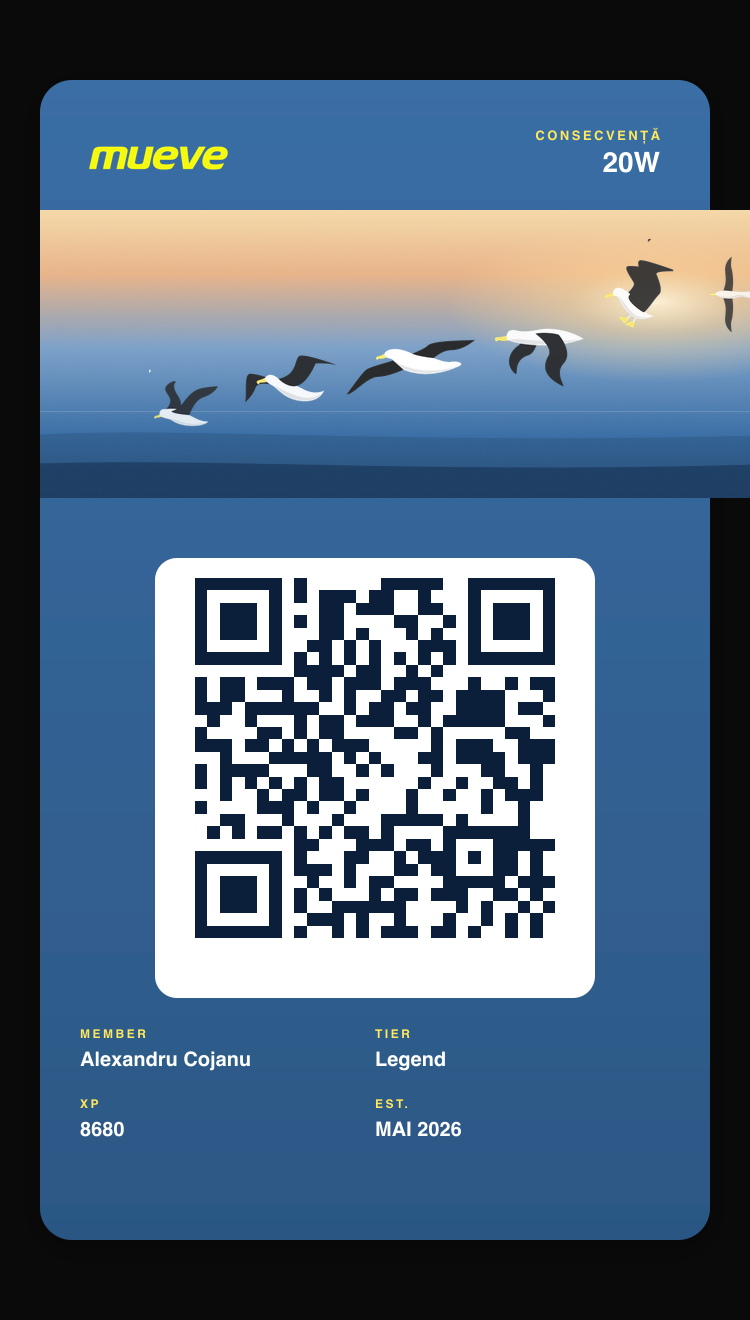
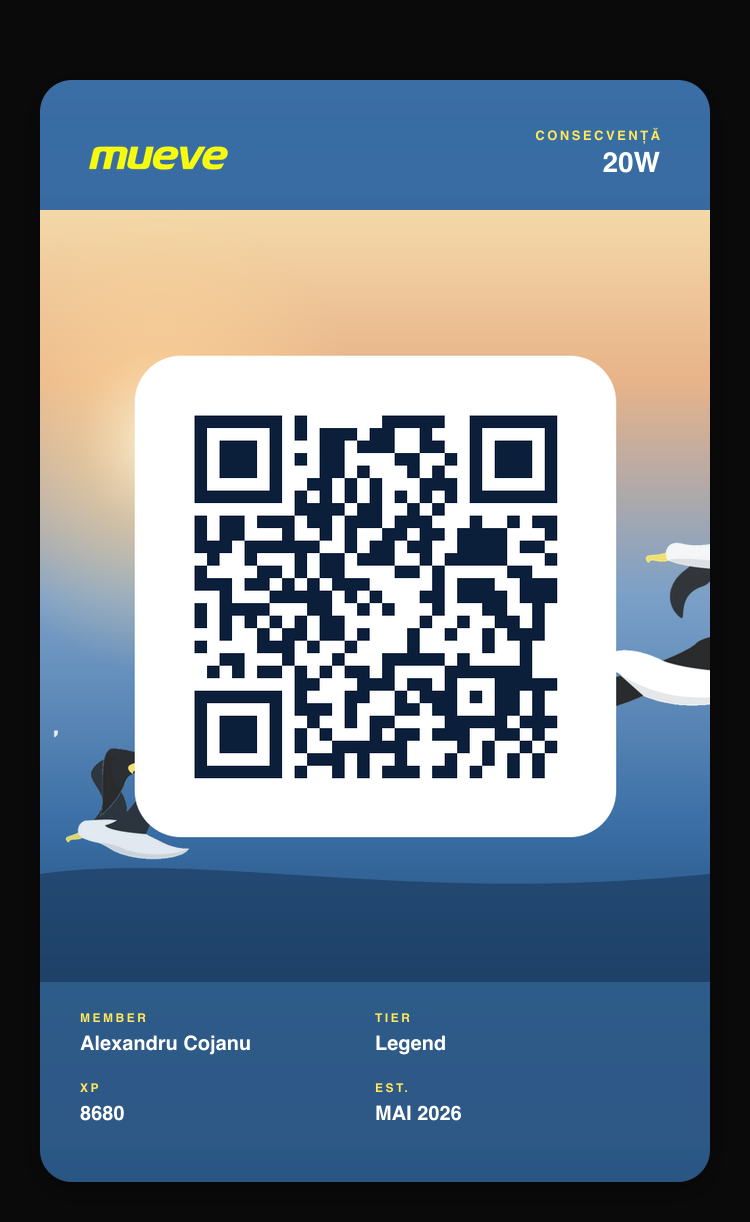
wallet(apple): bake QR into strip; fields render below QR as requested

diff --git a/src/lib/wallet/strip-renderer.ts b/src/lib/wallet/strip-renderer.ts
@@ -1,0 +1,149 @@
+import sharp from "sharp";
+import QRCode from "qrcode";
+import path from "node:path";
+import fs from "node:fs/promises";
+
+// Cartoon gull flock from public/birds/, sized + positioned for a 1x strip.
+// Positions are percentages so they scale to @2x/@3x cleanly.
+const FLOCK = [
+  { file: "bird-1.png", xPct: 0.06, yPct: 0.78, scale: 0.34, alpha: 0.85 },
+  { file: "bird-3.png", xPct: 0.16, yPct: 0.68, scale: 0.42, alpha: 0.95 },
+  { file: "bird-2.png", xPct: 0.84, yPct: 0.55, scale: 0.45, alpha: 1.0 },
+  { file: "bird-5.png", xPct: 0.93, yPct: 0.42, scale: 0.32, alpha: 0.9 },
+] as const;
+
+function buildSkySvg(w: number, h: number, qrSlotPx: number): string {
+  return `<svg width="${w}" height="${h}" xmlns="http://www.w3.org/2000/svg">
+    <defs>
+      <linearGradient id="sky" x1="0" y1="0" x2="0" y2="1">
+        <stop offset="0%" stop-color="#f4d8a8"/>
+        <stop offset="22%" stop-color="#e8b389"/>
+        <stop offset="50%" stop-color="#7ba0c8"/>
+        <stop offset="80%" stop-color="#3a6ea5"/>
+        <stop offset="100%" stop-color="#234c79"/>
+      </linearGradient>
+      <radialGradient id="sun" cx="0.18" cy="0.30" r="0.30">
+        <stop offset="0%" stop-color="#fff3d6" stop-opacity="0.95"/>
+        <stop offset="40%" stop-color="#ffd99a" stop-opacity="0.5"/>
+        <stop offset="100%" stop-color="#ffd99a" stop-opacity="0"/>
+      </radialGradient>
+    </defs>
+    <rect width="${w}" height="${h}" fill="url(#sky)"/>
+    <rect width="${w}" height="${h}" fill="url(#sun)"/>
+    <path d="M 0 ${h * 0.86}
+             C ${w * 0.25} ${h * 0.83}, ${w * 0.55} ${h * 0.90}, ${w} ${h * 0.86}
+             L ${w} ${h} L 0 ${h} Z"
+          fill="#1a3a5e" opacity="0.65"/>
+  </svg>`;
+}
+
+const BIRDS_DIR = path.resolve(process.cwd(), "public/birds");
+
+async function renderBird(file: string, targetH: number, alpha: number) {
+  const buf = await sharp(path.join(BIRDS_DIR, file))
+    .resize({ height: targetH, withoutEnlargement: false })
+    .ensureAlpha()
+    .toBuffer({ resolveWithObject: true });
+  const { data: raw, info } = await sharp(buf.data)
+    .raw()
+    .toBuffer({ resolveWithObject: true });
+  for (let i = 3; i < raw.length; i += 4) raw[i] = Math.round(raw[i] * alpha);
+  return sharp(raw, {
+    raw: { width: info.width, height: info.height, channels: 4 },
+  })
+    .png()
+    .toBuffer({ resolveWithObject: true });
+}
+
+async function renderAt(w: number, h: number, qrPayload: string) {
+  // QR tile sits centered with white background, dark navy modules.
+  const qrSizePx = Math.round(Math.min(h * 0.78, w * 0.58));
+  const qrPng = await QRCode.toBuffer(qrPayload, {
+    type: "png",
+    margin: 1,
+    width: qrSizePx,
+    color: { dark: "#0b1f3a", light: "#ffffff" },
+  });
+
+  // White rounded tile behind the QR for contrast against the sky.
+  const tilePad = Math.round(h * 0.06);
+  const tileSize = qrSizePx + tilePad * 2;
+  const tile = await sharp({
+    create: {
+      width: tileSize,
+      height: tileSize,
+      channels: 4,
+      background: { r: 255, g: 255, b: 255, alpha: 1 },
+    },
+  })
+    .composite([
+      {
+        input: Buffer.from(
+          `<svg width="${tileSize}" height="${tileSize}"><rect width="${tileSize}" height="${tileSize}" rx="${tilePad}" fill="white"/></svg>`,
+        ),
+        blend: "dest-in",
+      },
+      { input: qrPng, left: tilePad, top: tilePad },
+    ])
+    .png()
+    .toBuffer();
+
+  const sky = await sharp(Buffer.from(buildSkySvg(w, h, qrSizePx))).png().toBuffer();
+
+  const composites: sharp.OverlayOptions[] = [];
+
+  // Birds first (behind tile so QR sits on top)
+  for (const bird of FLOCK) {
+    const targetH = Math.round(h * bird.scale);
+    const b = await renderBird(bird.file, targetH, bird.alpha);
+    composites.push({
+      input: b.data,
+      left: Math.round(w * bird.xPct - b.info.width / 2),
+      top: Math.round(h * bird.yPct - b.info.height / 2),
+    });
+  }
+
+  // QR tile centered
+  composites.push({
+    input: tile,
+    left: Math.round((w - tileSize) / 2),
+    top: Math.round((h - tileSize) / 2),
+  });
+
+  return sharp(sky).composite(composites).png().toBuffer();
+}
+
+/**
+ * Returns the 1x/2x/3x strip PNGs with the QR baked in the middle, on a
+ * dawn-sky background with the cartoon gull flock around it.
+ *
+ * Caller should pass these directly into PKPass constructor's assets dict
+ * (in addition to icon.png and logo.png) and OMIT `setBarcodes` so the
+ * baked QR is the only one shown.
+ */
+export async function buildStripWithQr(qrPayload: string): Promise<{
+  "strip.png": Buffer;
+  "strip@2x.png": Buffer;
+  "strip@3x.png": Buffer;
+}> {
+  // 1x ~ 375x432 — taller than the default 144 strip; Apple still accepts
+  // strip images of this aspect, just renders them at native height.
+  const s1 = await renderAt(375, 432, qrPayload);
+  const s2 = await renderAt(750, 864, qrPayload);
+  const s3 = await renderAt(1125, 1296, qrPayload);
+  return { "strip.png": s1, "strip@2x.png": s2, "strip@3x.png": s3 };
+}
+
+// Eager load icon/logo from public/wallet/apple/ for the caller to merge.
+export async function loadStaticPassAssets(dir: string): Promise<Record<string, Buffer>> {
+  const names = ["icon.png", "icon@2x.png", "icon@3x.png", "logo.png", "logo@2x.png", "logo@3x.png"];
+  const out: Record<string, Buffer> = {};
+  for (const n of names) {
+    try {
+      out[n] = await fs.readFile(path.join(dir, n));
+    } catch {
+      /* optional */
+    }
+  }
+  return out;
+}

diff --git a/src/lib/wallet/apple.ts b/src/lib/wallet/apple.ts
@@ -1,6 +1,6 @@
 import path from "node:path";
-import fs from "node:fs/promises";
 import { PKPass } from "passkit-generator";
+import { buildStripWithQr, loadStaticPassAssets } from "./strip-renderer";
 
 export type AppleWalletConfig = {
   passTypeIdentifier: string;
@@ -47,27 +47,6 @@ export function getAppleConfig(): AppleWalletConfig | null {
   };
 }
 
-async function loadTemplateAssets(dir: string): Promise<Record<string, Buffer>> {
-  const names = [
-    "icon.png",
-    "icon@2x.png",
-    "logo.png",
-    "logo@2x.png",
-    "strip.png",
-    "strip@2x.png",
-    "strip@3x.png",
-  ];
-  const out: Record<string, Buffer> = {};
-  for (const n of names) {
-    const p = path.join(dir, n);
-    try {
-      out[n] = await fs.readFile(p);
-    } catch {
-      // optional — if missing, pass validation may fail on Apple's side; user is told to add
-    }
-  }
-  return out;
-}
 
 export type AppleUserData = {
   userId: string;
@@ -87,12 +66,20 @@ export async function buildApplePass(user: AppleUserData): Promise<Buffer> {
   const cfg = getAppleConfig();
   if (!cfg) throw new Error("Apple Wallet is not configured.");
   const templateDir = path.join(process.cwd(), "public", "wallet", "apple");
-  const assets = await loadTemplateAssets(templateDir);
-  if (!assets["icon.png"]) {
+  const staticAssets = await loadStaticPassAssets(templateDir);
+  if (!staticAssets["icon.png"]) {
     throw new Error(
       "Missing required Apple Wallet icon at public/wallet/apple/icon.png (29x29). Add icon.png, icon@2x.png, logo.png, logo@2x.png before generating passes.",
     );
   }
+  // Per-user strip with the QR baked in the middle, so the QR appears above
+  // the secondary/auxiliary fields (Apple renders the strip image between
+  // header and primary fields; if we omit setBarcodes, no QR is drawn at
+  // the bottom and the baked one is the only one shown — exactly what the
+  // pass design calls for).
+  const stripPayload = user.qrUrl || user.qrToken;
+  const stripAssets = await buildStripWithQr(stripPayload);
+  const assets: Record<string, Buffer> = { ...staticAssets, ...stripAssets };
 
   const pass = new PKPass(
     assets,
@@ -120,11 +107,8 @@ export async function buildApplePass(user: AppleUserData): Promise<Buffer> {
   // storeCard supports the strip image (a horizontal banner under the header) —
   // we use it to render the seagull horizon scene that expresses consecvență.
   pass.type = "storeCard";
-  pass.setBarcodes({
-    message: user.qrUrl || user.qrToken,
-    format: "PKBarcodeFormatQR",
-    messageEncoding: "iso-8859-1",
-  });
+  // No native barcode — the QR is baked into the strip image so it can sit
+  // above the secondary/auxiliary fields instead of at the very bottom.
 
   // Streak in the header (top-right, small, beside logo) so the strip art
   // breathes and the QR sits closer to mid-card. The number still travels
